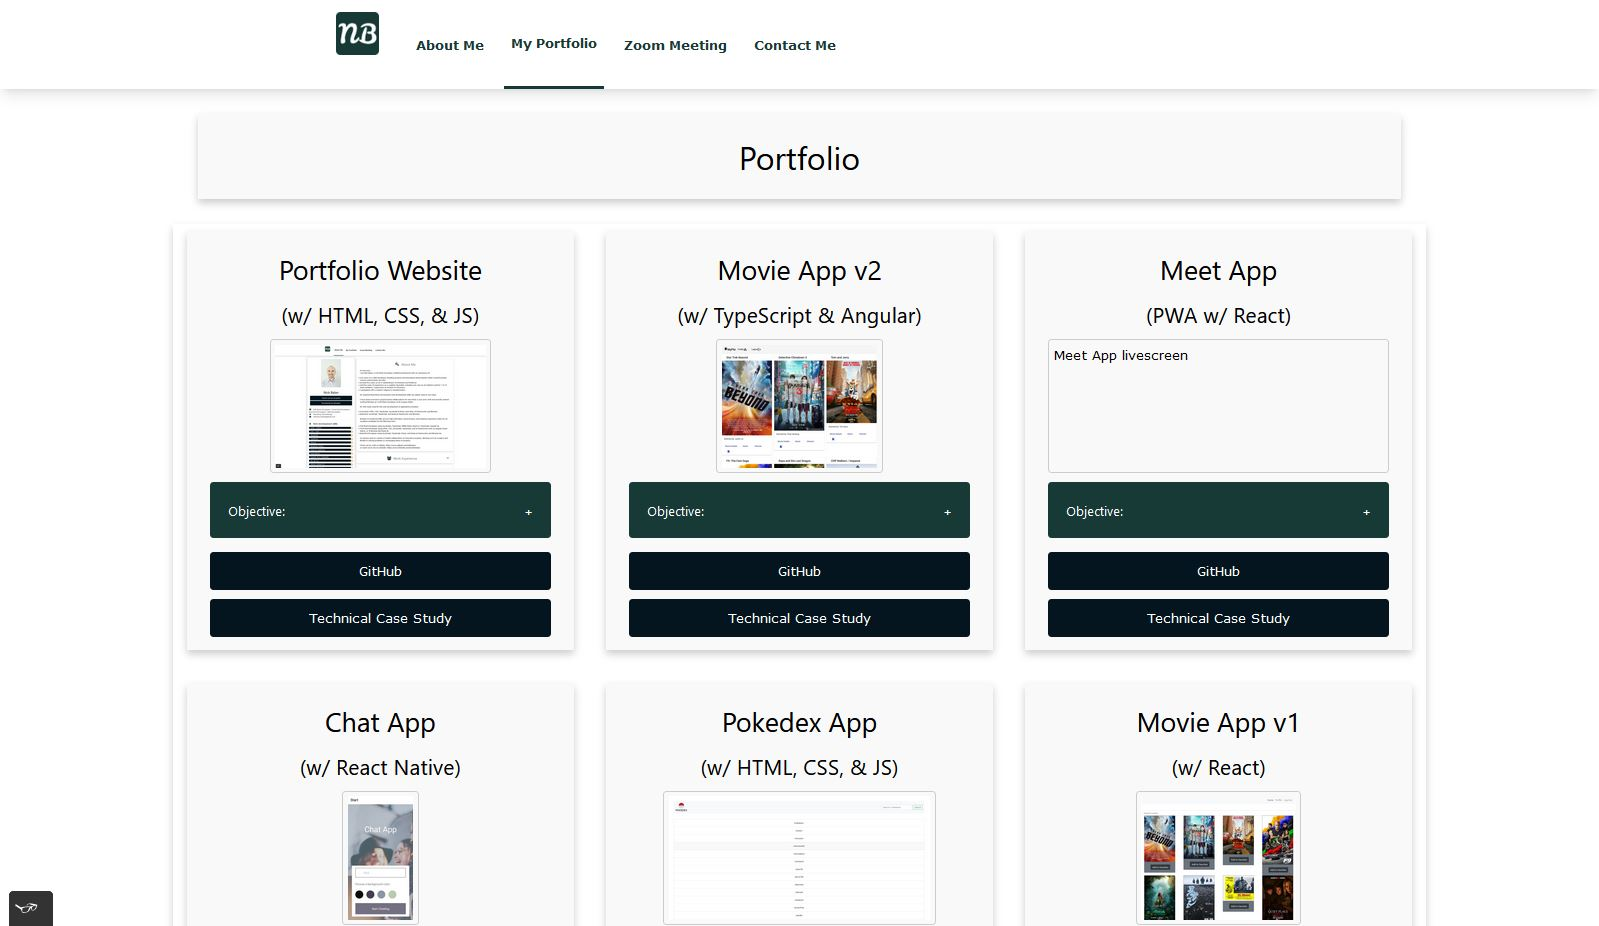
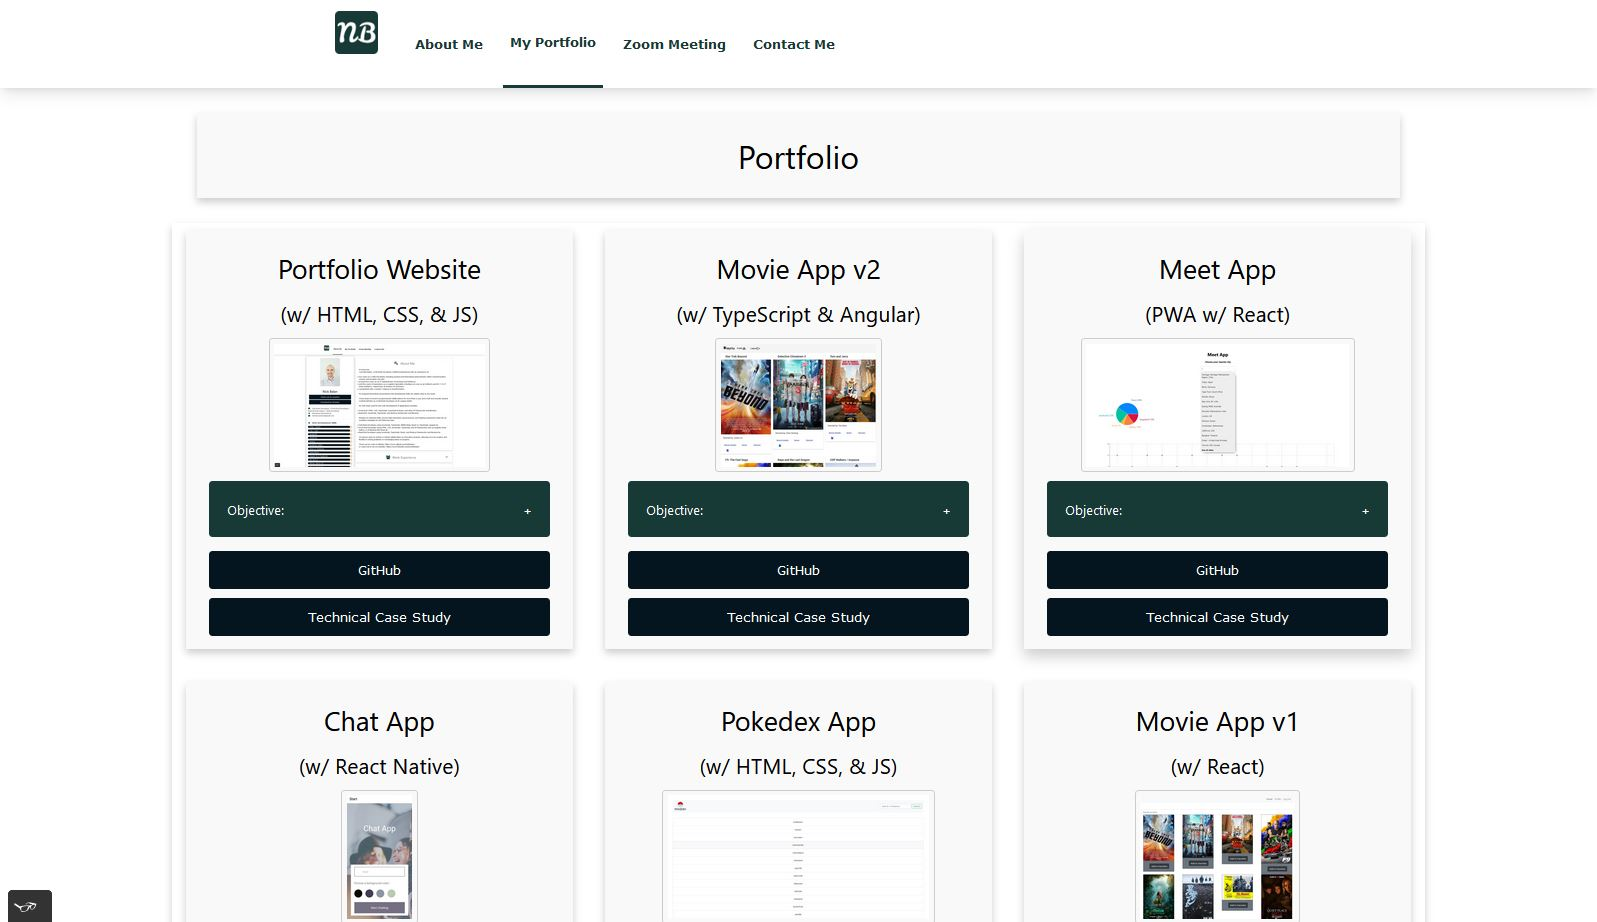
Updated the live screenshots | v2.3

diff --git a/portfolio.html b/portfolio.html
@@ -168,10 +168,10 @@
           <div class="container">
             <!-- Sets the roject live screen -->
             <img
-              src="img/Livescreen/Portfolio_website_improvement_v7/Portfolio_website_About_Me_page_improvement_v7.JPG"
+              src="img/Livescreen/Portfolio_website_improvement_v7/Portfolio_website_About_Me_page_improvement_v7_2.JPG"
               class="w3-hover-opacity project-screen"
               onclick="onClick(this)"
-              alt="Portfolio Website livescreen"
+              alt="Portfolio Website live screenshot"
             />
             <!-- Added the Project description -->
             <h3 class="collapsible">Objective:</h3>
@@ -208,7 +208,7 @@
               src="img/Livescreen/Movie_App_v2_Livescreen.JPG"
               class="w3-hover-opacity project-screen"
               onclick="onClick(this)"
-              alt="Movie App v2 livescreen"
+              alt="Movie App v2 live screenshot"
             />
             <!-- Project description -->
             <h3 class="collapsible">Objective:</h3>
@@ -244,7 +244,7 @@
               src="img/Livescreen/Meet_App_Livescreen.JPG"
               class="w3-hover-opacity project-screen"
               onclick="onClick(this)"
-              alt="Meet App livescreen"
+              alt="Meet App live screenshot"
             />
             <!-- Project description -->
             <h3 class="collapsible">Objective:</h3>
@@ -280,7 +280,7 @@
               src="img/Livescreen/Chat_App_Livescreen.jpg"
               class="w3-hover-opacity project-screen"
               onclick="onClick(this)"
-              alt="Chat App livescreen"
+              alt="Chat App live screenshot"
             />
             <!-- Project description -->
             <h3 class="collapsible">Objective:</h3>
@@ -317,7 +317,7 @@
               src="img/Livescreen/Pokedex_App_Livescreen.JPG"
               class="w3-hover-opacity project-screen"
               onclick="onClick(this)"
-              alt="JS App livescreen"
+              alt="JS App live screenshot"
             />
             <!-- Project description -->
             <h3 class="collapsible">Objective:</h3>
@@ -354,7 +354,7 @@
               src="img/Livescreen/Movie_App_v1_Livescreen.JPG"
               class="w3-hover-opacity project-screen"
               onclick="onClick(this)"
-              alt="Movie App v1 livescreen"
+              alt="Movie App v1 live screenshot"
             />
             <!-- Project description -->
             <h3 class="collapsible">Objective:</h3>
@@ -390,7 +390,7 @@
               src="img/Livescreen/Movie_API_Livescreen.JPG"
               class="w3-hover-opacity project-screen"
               onclick="onClick(this)"
-              alt="Movie API Endpoints Documentation livescreen"
+              alt="Movie API Endpoints Documentation live screenshot"
             />
             <!-- Project description -->
             <h3 class="collapsible">Objective:</h3>
@@ -427,7 +427,7 @@
               src="img/Livescreen/To_Do_App_v2_Livescreen.JPG"
               class="w3-hover-opacity project-screen"
               onclick="onClick(this)"
-              alt="To-Do App v2 with ReactJS and TypeScript livescreen"
+              alt="To-Do App v2 with ReactJS and TypeScript live screenshot"
             />
             <!-- Project description -->
             <h3 class="collapsible">Objective:</h3>
@@ -464,7 +464,7 @@
               src="img/Livescreen/Budget_Planner_App_1.JPG"
               class="w3-hover-opacity project-screen"
               onclick="onClick(this)"
-              alt="Budget Planner App livescreen"
+              alt="Budget Planner App live screenshot"
             />
             <!-- Project description -->
             <h3 class="collapsible">Objective:</h3>
@@ -516,7 +516,7 @@
               src="img/Livescreen/Portfolio_website_improvement_v5/Portfolio_website_About_Me_page_improvement_v5.JPG"
               id="img01"
               class="w3-image"
-              alt="Portfolio Website livescreen"
+              alt="Portfolio Website live screenshot"
             />
             <p id="caption" class="w3-opacity w3-large"></p>
           </div>
